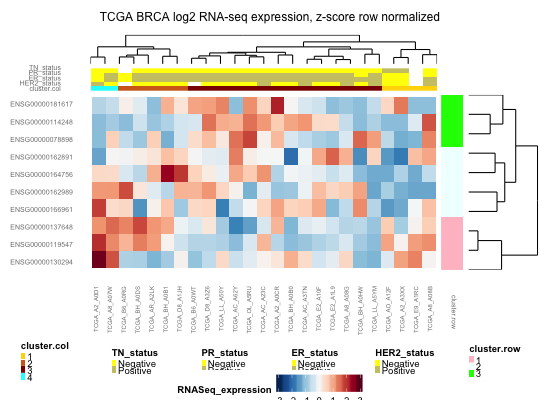
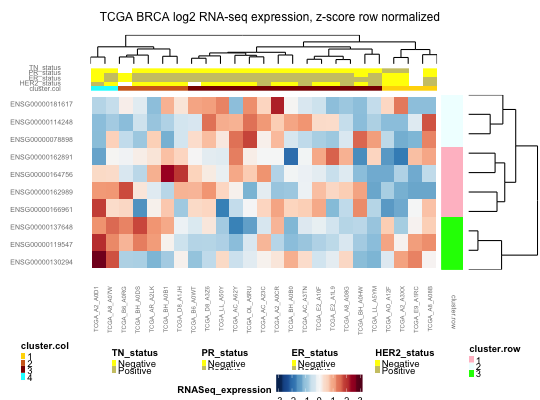
eliminated reverse ordering of heatmap

Changed region(s): [[0.8, 0.24, 0.8593, 0.69]]

diff --git a/CBMRtools/inst/web/heatmap.ggplot2.html b/CBMRtools/inst/web/heatmap.ggplot2.html
@@ -145,12 +145,11 @@ verbose = FALSE, show = FALSE)
 grid.arrange(p1)
 </div>
 <p><img src='heatmap.ggplot2-2.png' alt='' width='540' height='400' /></p>
-<div class='input'>#ggsave(p1, file = &quot;p1.pdf&quot;)
+<div class='input'>
 
 x&lt;-exprs(eSet1)
-x&lt;-x[rev(1:nrow(x)),]
 hc.row&lt;-hcopt(stats::as.dist(1-cor(t(x))),method=&quot;ward.D&quot;)
-hc.col &lt;- hcopt(stats::dist(t(x)), method=&quot;ward.D&quot;)
+hc.col &lt;- hcopt(stats::dist(t(x), method = &quot;euclidean&quot;), method=&quot;ward.D&quot;)
 
 #Adding custom hclust object in col.clust.hc and row.clust.hc
 p2 &lt;- heatmap.ggplot2(eSet=eSet1, col.clust = TRUE, row.clust = TRUE,
@@ -169,7 +168,7 @@ grid.newpage()
 grid.arrange(p2)
 </div>
 <p><img src='heatmap.ggplot2-4.png' alt='' width='540' height='400' /></p>
-<div class='input'>##ggsave(p2, file = &quot;p2.pdf&quot;)
+<div class='input'>
 
 #Saving plot in verbose format
 p3 &lt;- heatmap.ggplot2(eSet=eSet1, col.clust = TRUE, row.clust = TRUE,
@@ -188,7 +187,7 @@ grid.newpage()
 grid.arrange(p3$heatmap)
 </div>
 <p><img src='heatmap.ggplot2-6.png' alt='' width='540' height='400' /></p>
-<div class='input'>##ggsave(p3, file = &quot;p3.pdf&quot;)
+<div class='input'>
 
 #Adding custom colors to column and row annotation labels
 print(p3$meta.c$id)
@@ -216,8 +215,8 @@ meta.c.color&lt;-as.character(sapply(meta.c.color.string, to.hex))
 names(meta.c.color)&lt;-c(&quot;Negative&quot;, &quot;Positive&quot;, &quot;1&quot;, &quot;2&quot;, &quot;3&quot;, &quot;4&quot;)
 print(p3$meta.r$id)
 </div>
-<div class='output'> [1] 1 1 1 2 2 2 2 3 3 3
-Levels: 1 2 3
+<div class='output'> [1] 3 3 3 1 1 1 1 2 2 2
+Levels: 3 1 2
 </div>
 <div class='input'>meta.r.color.string&lt;-c(&quot;pink&quot;, &quot;azure&quot;, &quot;green&quot;)
 meta.r.color&lt;-as.character(sapply(meta.r.color.string, to.hex))
@@ -241,9 +240,7 @@ verbose = FALSE, show = FALSE)
 grid.newpage()
 grid.arrange(p4)
 </div>
-<p><img src='heatmap.ggplot2-12.png' alt='' width='540' height='400' /></p>
-<div class='input'>#ggsave(p4, file = &quot;p4.pdf&quot;)
-</div></pre>
+<p><img src='heatmap.ggplot2-12.png' alt='' width='540' height='400' /></p></pre>
   </div>
   <div class="span4">
     <!-- <ul>
